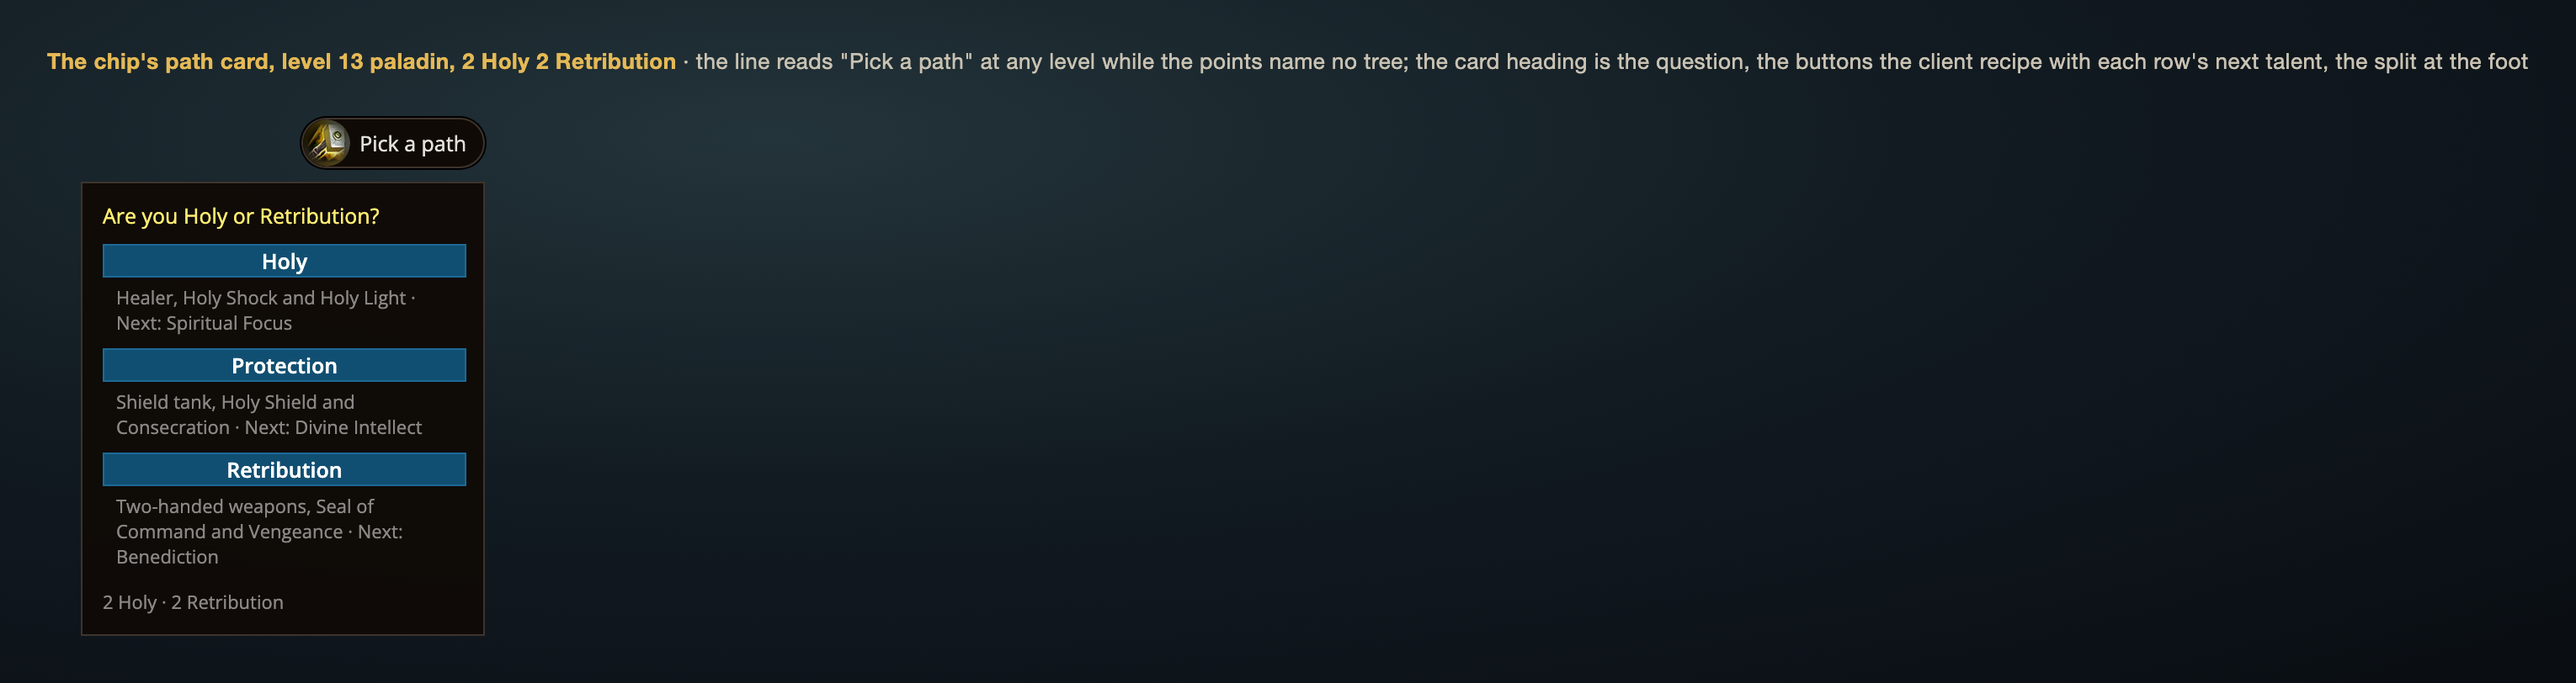
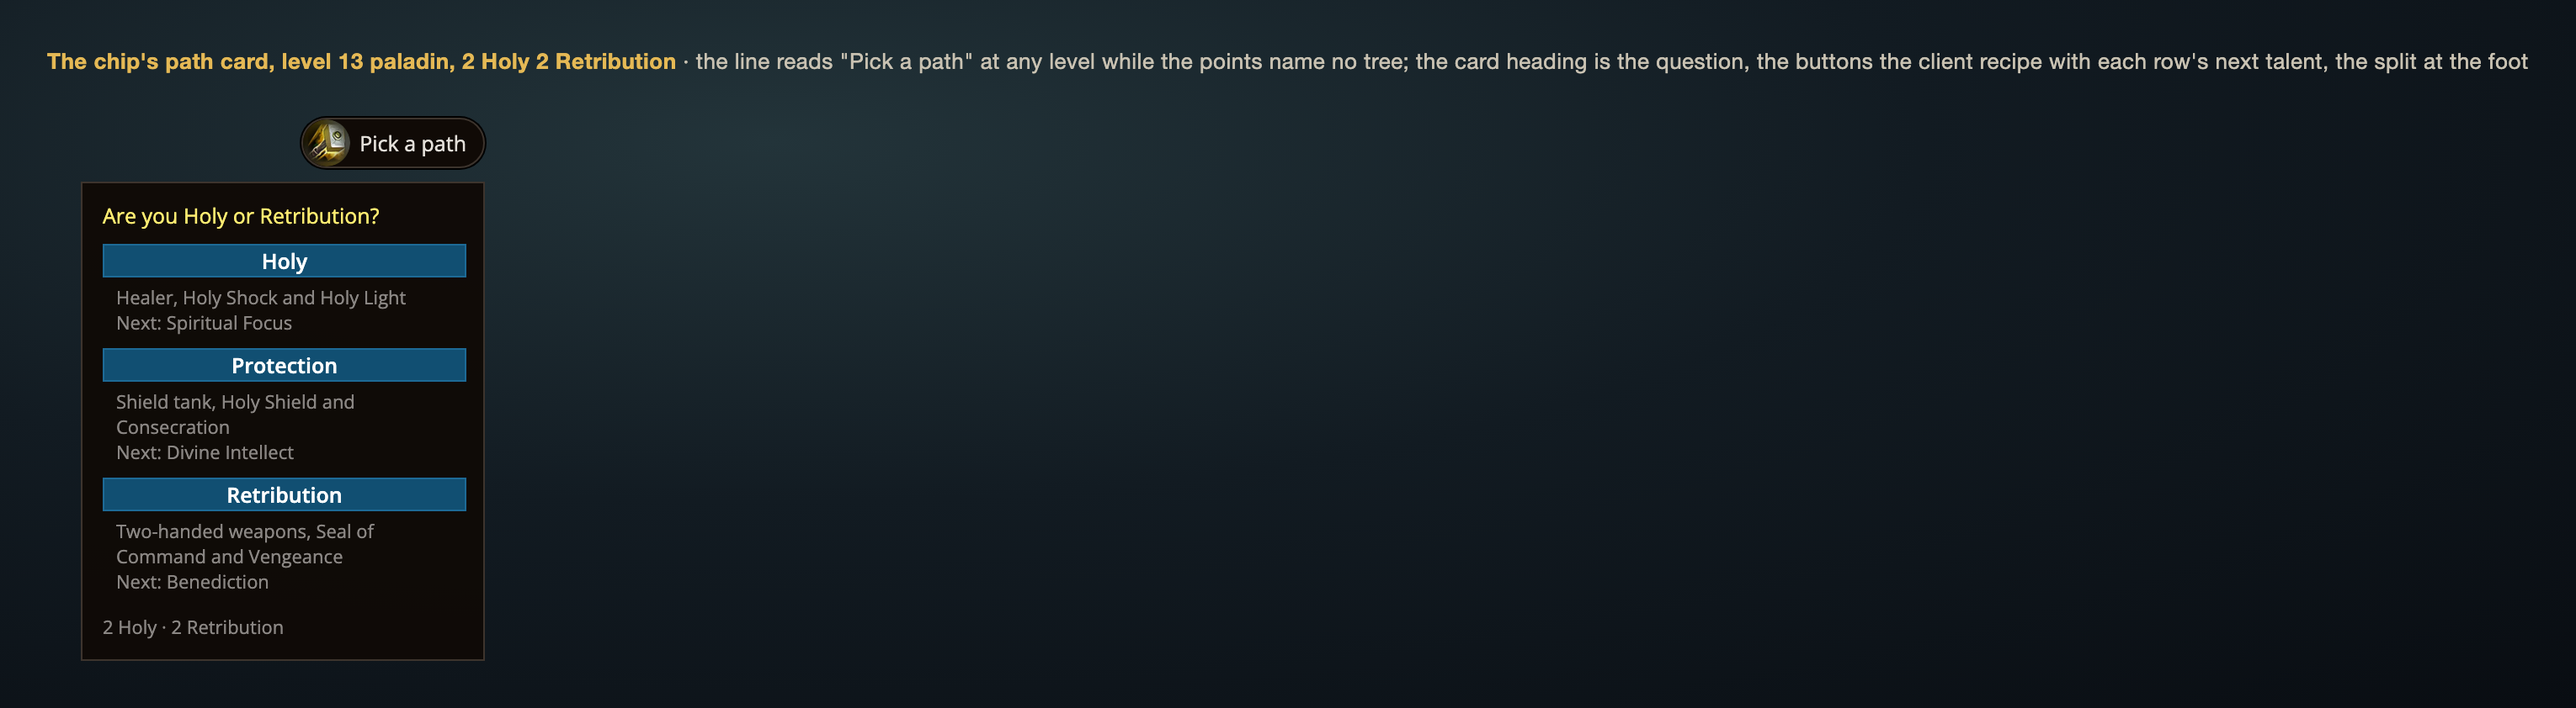
fix(addon): the chip card's next talent on its own line; round-3 verdicts filed
Claude-Session: https://claude.ai/code/session_01Wrtayzxz2jvhjren4pWihn

diff --git a/design/mocks/addon_tour.py b/design/mocks/addon_tour.py
@@ -23,7 +23,7 @@ from addon_ux import (ADDON, C, CSS, OB_H, OB_W, PAGES, RING, NOTCH, TITLE_FONT,
 
 ROOT = Path(__file__).resolve().parents[2]
 # Onboarding.lua coming(): the plain word, muted (round 3), 6 px after the line.
-COMING = f'<span style="font-size:12px;color:{U["muted"]};margin-left:6px">coming</span>'
+COMING = f'<span style="font-size:12px;color:{U["muted"]};margin-left:4px">coming</span>'
 OUT = Path(os.environ['MOCK_OUT']) if os.environ.get('MOCK_OUT') else ROOT / 'design/reviews/2026-11-11-addon-tour'
 LOCALE = (ROOT / 'addon/ForeverSixty/Locale.lua').read_text()
 DATA = (ROOT / 'addon/ForeverSixty/Data.lua').read_text()
@@ -573,8 +573,9 @@ def board_panel_ask():
 def board_chip_card_ask():
     specs = default_builds('paladin', 'leveling')
     buttons = ''.join(f'<div style="margin-top:8px"><span class="sbtn" style="width:216px;height:20px">{spec_name(s)}'
-                      f'</span><div style="font-size:11px;color:{ADDON["muted"]};margin:4px 0 0 8px">'
-                      f'{tile_line("paladin", s, "leveling", 0)}</div></div>' for s, _, _ in specs)
+                      f'</span><div style="font-size:11px;color:{ADDON["muted"]};margin:4px 0 0 8px">{playstyle(s)}<br>'
+                      f'{locale("pathNext") % next_talent("paladin", s, "leveling", 0)}</div></div>'
+                      for s, _, _ in specs)
     card = (f'<div style="width:240px;background:rgba(16,10,6,.96);border:1px solid {ADDON["line"]};padding:12px;'
             f'font-family:Site,sans-serif;font-size:12.5px;color:{ADDON["body"]}">'
             f'<div style="color:{ADDON["gold"]};line-height:16px">{ask(["Holy", "Retribution"])}</div>{buttons}'

diff --git a/design/reviews/2026-11-11-addon-tour/round-3-notes.md b/design/reviews/2026-11-11-addon-tour/round-3-notes.md
@@ -1,0 +1,14 @@
+# Round 3: the last gate
+
+Narrow gate on the four boards round 3 changed (`panel-ask`, `chip-path-card-ask`, `onboarding-1-loop`, `onboarding-4-guild`).
+
+| Reviewer | Verdict | Remaining |
+|---|---|---|
+| ux-designer | SHIP WITH FIXES | the chip card's "Next:" on its own line (done after the verdict, `Chip.cardLine` joins with a newline, three lines reserved); the mock's double gap before "coming" (done) |
+| wow-player | SHIP WITH FIXES | the same chip card line (done); the 60 boards wait on the data lane's 51 points |
+| ai-slop-reviewer | PASS WITH FIXES | the same chip card line (done); page 3's sublines accepted as the coordinator's ruling; no visual tells |
+| info-density-reviewer | DENSE (round 2) | its fix, the panel's split line, landed in round 3 |
+| brand-consistency-reviewer | DRIFT (round 2) | only the dialog's older chrome, deferred in spec 6.11 |
+| guild-officer-reviewer | CLOSE (round 1) | the own-row prompt and others' splits are follow-ups (data) |
+
+The three verdicts are in `<reviewer>-round-3.md`. The chip card board was re-rendered after the fix.

diff --git a/design/reviews/2026-11-11-addon-tour/ux-designer-round-3.md b/design/reviews/2026-11-11-addon-tour/ux-designer-round-3.md
@@ -1,0 +1,5 @@
+# ux-designer, round 3
+
+**Verdict: SHIP WITH FIXES.** The round-2 must-fix is closed: on `panel-ask` the question stays on one line with the split on its own muted line under it, and each row's "Next:" is on its own line; `drawPath` measures the title and the split. Declines accepted: the dialog's hint inset, the tour footer's right edge and the client button's square corners are existing recipes; page 3's sublines are the coordinator's recorded exception; "Next talent:" at the dialog's top names the build followed, the rows the builds on offer. Checked with no action: the chip card's centred labels and per-row next talent set on every show; "coming" muted on page 4; page 1's two noun lines fit their tiles.
+
+Should-fix, not blockers: the chip card's "Next: / Benediction" break (join with a newline as the panel does, reserving the third line); the double gap before "coming" on page 4.

diff --git a/design/reviews/2026-11-11-addon-tour/ai-slop-reviewer-round-3.md b/design/reviews/2026-11-11-addon-tour/ai-slop-reviewer-round-3.md
@@ -1,0 +1,5 @@
+# ai-slop-reviewer, round 3
+
+**Verdict: PASS WITH FIXES; the surface passes with the stated declines.** It reads as a player's work (Onyxia's Lair, "Whelps, west cave", Spiritual Focus, Benediction). Round-2 fixes checked: page 1's sublines are nouns; "coming" is muted; the panel's split and "Next:" lines no longer wrap; the chip card is the client recipe with centred labels. No visual tells: no glows, gradients, glass, nested cards, pills, icon grids or emoji; the icons are real game art.
+
+Remaining, copy and layout only: page 3's sublines (the coordinator's ruling, accepted); the chip card's "Next: / Benediction" break (give it its own line as the panel does; it need not block the landing); tell 7 on page 1 is mild now that the sublines are short nouns. The declines (the dialog's hint inset, the footer edge, square client buttons, page 3) are not slop tells.

diff --git a/design/reviews/2026-11-11-addon-tour/wow-player-round-3.md b/design/reviews/2026-11-11-addon-tour/wow-player-round-3.md
@@ -1,0 +1,5 @@
+# wow-player, round 3
+
+**Verdict: SHIP WITH FIXES.** The must-fix is closed: "2 Holy · 2 Retribution" is one muted line under the question, nothing breaks mid-name, and each "Next:" sits on its own line (closing round-2 should-fix 1 too). The chip card's buttons are plain client buttons with centred labels and the split at the foot. Page 1's copy reads as a player's ("Best in slot, the sim, guides, tier lists.", "Your bags, your talent window, your panel."), and the loop reads in order.
+
+Remaining should-fix: the chip card runs "Next:" into the description so "Benediction" lands alone on the last line; put it on its own line as the panel does. Not blocking: the gap before "coming"; "Pick a path" as the owner's word; the declined round-2 items. The 60 boards still wait on the data lane having 51 points.
